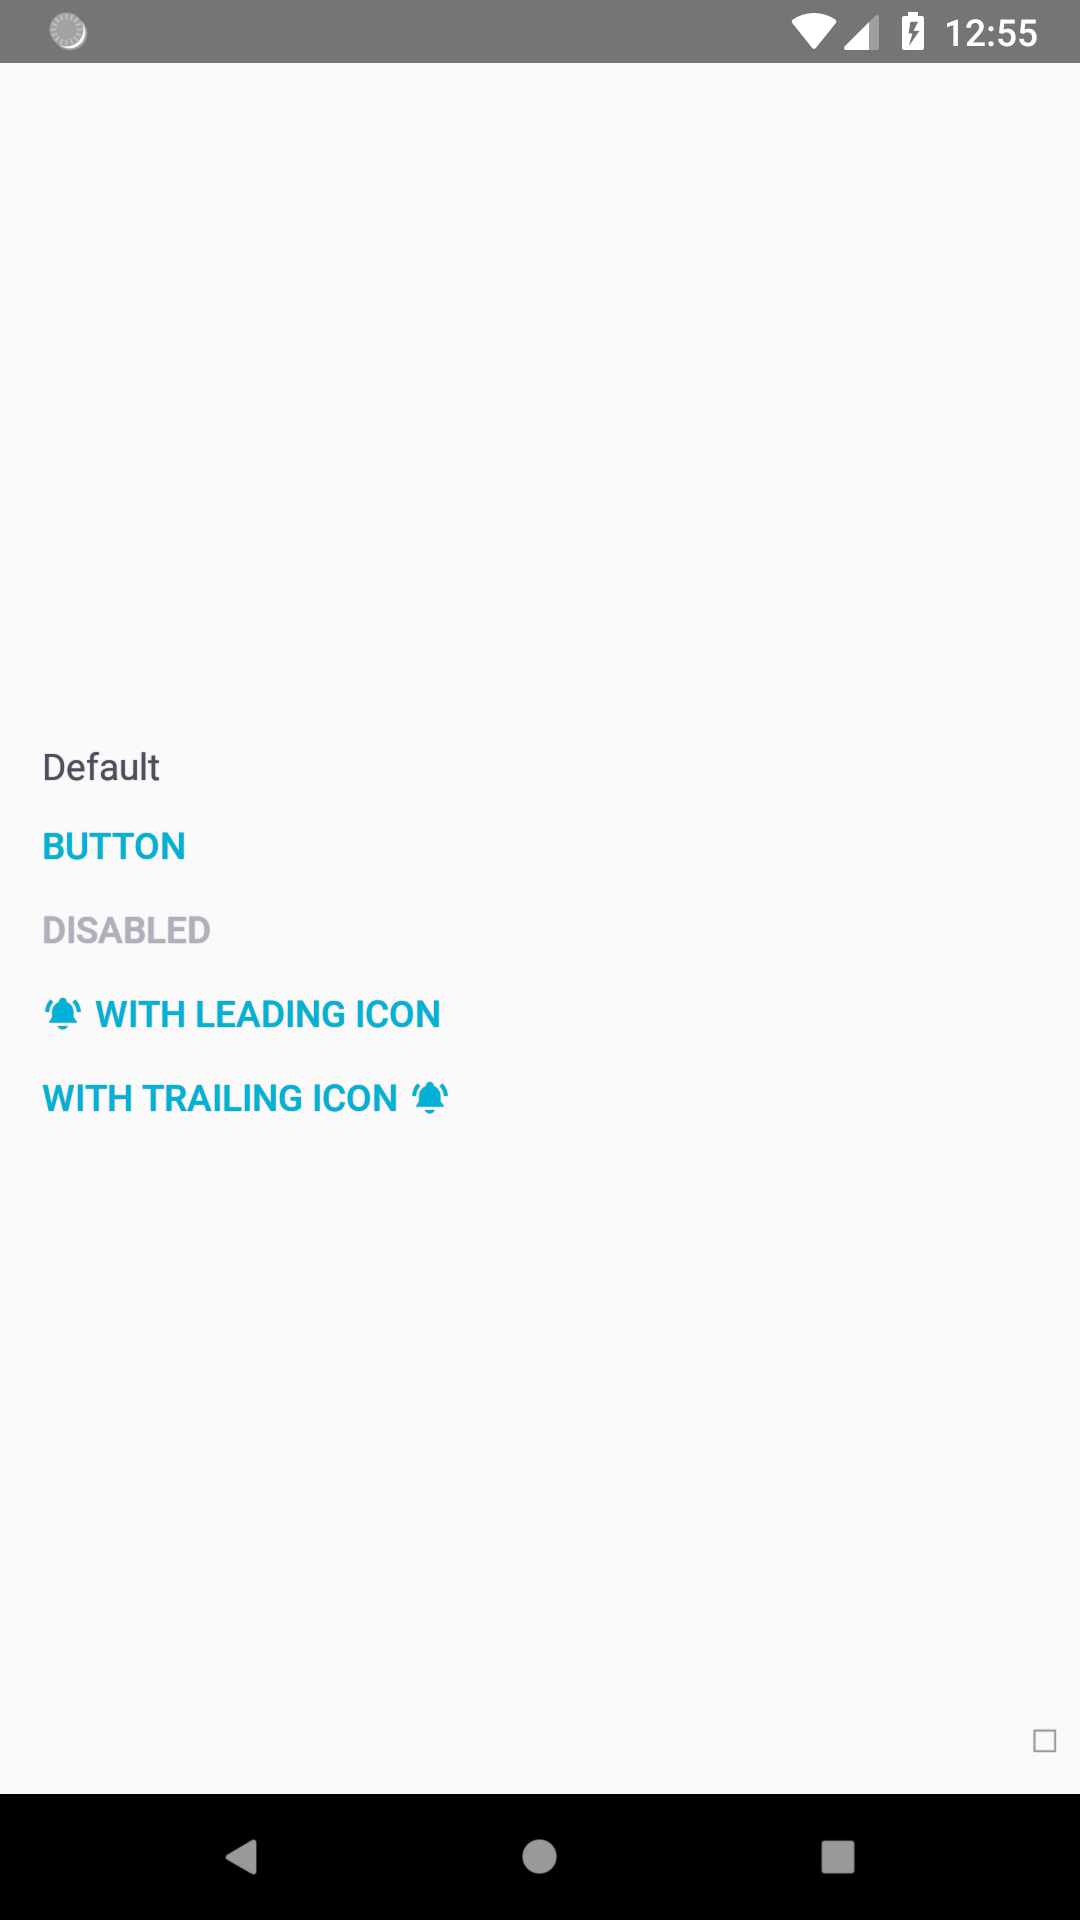
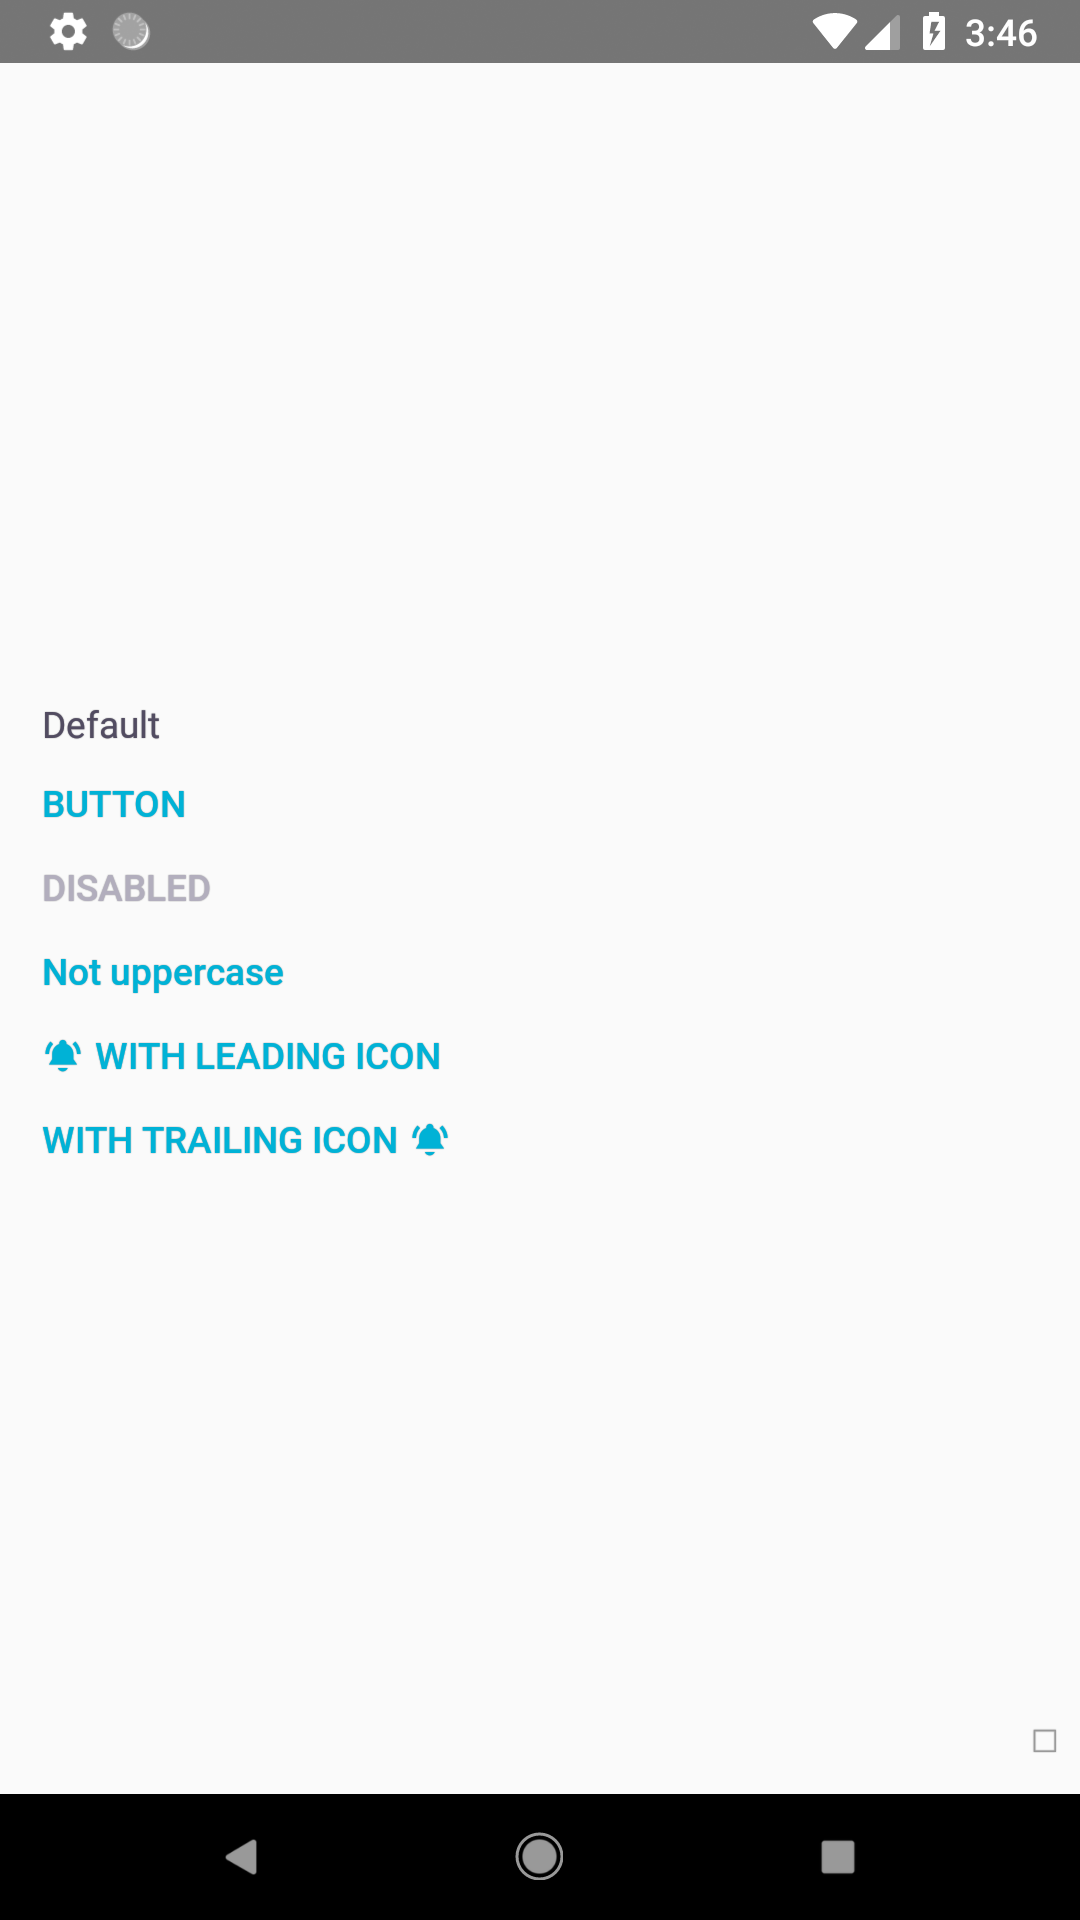
[BPK-2275] Add uppercase prop to Android link buttons

diff --git a/packages/react-native-bpk-component-button-link/src/BpkButtonLink.android.js b/packages/react-native-bpk-component-button-link/src/BpkButtonLink.android.js
@@ -38,6 +38,7 @@ import {
 export type Props = {
   ...$Exact<CommonProps>,
   borderlessBackground: boolean,
+  uppercase: boolean,
   style: ?any,
 };
 
@@ -51,6 +52,7 @@ const BpkButtonLink = (props: Props) => {
     style,
     title,
     borderlessBackground,
+    uppercase,
     theme,
     textProps,
     ...rest
@@ -101,7 +103,7 @@ const BpkButtonLink = (props: Props) => {
             style={textStyle}
             {...textProps}
           >
-            {title.toUpperCase()}
+            {uppercase ? title.toUpperCase() : title}
           </BpkText>
           {typeof icon === 'string' ? (
             <BpkIcon icon={icon} style={iconStyle} small />
@@ -117,6 +119,7 @@ const BpkButtonLink = (props: Props) => {
 const propTypes = {
   ...commonPropTypes,
   borderlessBackground: PropTypes.bool,
+  uppercase: PropTypes.bool,
   style: ViewPropTypes.style,
 };
 
@@ -125,6 +128,7 @@ BpkButtonLink.propTypes = propTypes;
 BpkButtonLink.defaultProps = {
   ...commonDefaultProps,
   borderlessBackground: true,
+  uppercase: true,
   style: null,
 };
 

diff --git a/packages/react-native-bpk-component-button-link/src/BpkButtonLink-test.android.js b/packages/react-native-bpk-component-button-link/src/BpkButtonLink-test.android.js
@@ -69,4 +69,20 @@ describe('Android', () => {
 
     expect(tree).toMatchSnapshot();
   });
+
+  it('should support "uppercase" equal to false', () => {
+    const onPressFn = jest.fn();
+
+    const tree = renderer
+      .create(
+        <BpkButtonLink
+          title="Lorem ipsum"
+          onPress={onPressFn}
+          uppercase={false}
+        />,
+      )
+      .toJSON();
+
+    expect(tree).toMatchSnapshot();
+  });
 });

diff --git a/packages/react-native-bpk-component-button-link/stories.js b/packages/react-native-bpk-component-button-link/stories.js
@@ -52,6 +52,13 @@ const ButtonStory = () => (
         title="Disabled"
         onPress={action('This should not be possible')}
       />
+      {Platform.OS === 'android' && (
+        <BpkButtonLink
+          uppercase={false}
+          title="Not uppercase"
+          onPress={action(`Not uppercase button pressed`)}
+        />
+      )}
       <BpkButtonLink
         title="With Leading icon"
         iconAlignment="leading"

diff --git a/packages/react-native-bpk-component-button-link/README.md b/packages/react-native-bpk-component-button-link/README.md
@@ -69,6 +69,7 @@ export default class App extends Component {
 | iconAlignment                       | oneOf('leading', 'trailing')                                              | false    | trailing      |
 | large (iOS only)                    | bool                                                                      | false    | false         |
 | borderlessBackground (Android only) | bool                                                                      | false    | true          |
+| uppercase (Android only)            | bool                                                                      | false    | true          |
 | theme                               | See [Theme Props](#theme-props) below                                     | false    | null          |
 | textProps                           | object                                                                    | false    | null          |
 

diff --git a/UNRELEASED.md b/UNRELEASED.md
@@ -1,1 +1,5 @@
 # Unreleased
+
+**Added:**
+- react-native-bpk-component-button-link:
+  - Added optional `uppercase` prop for Android to toggle whether the button title should be in uppercase.
